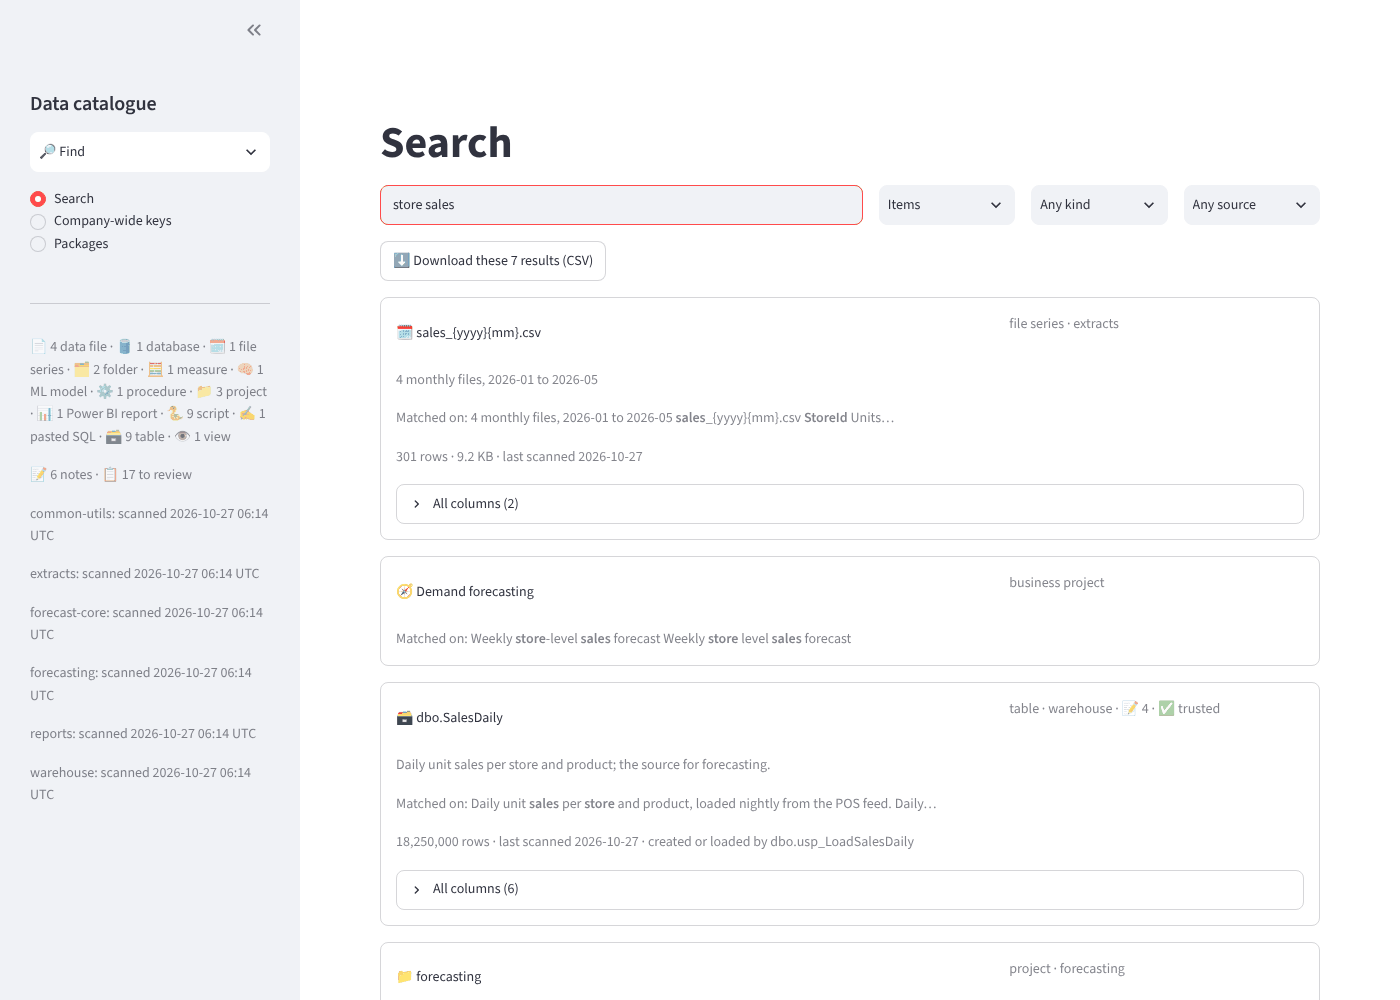
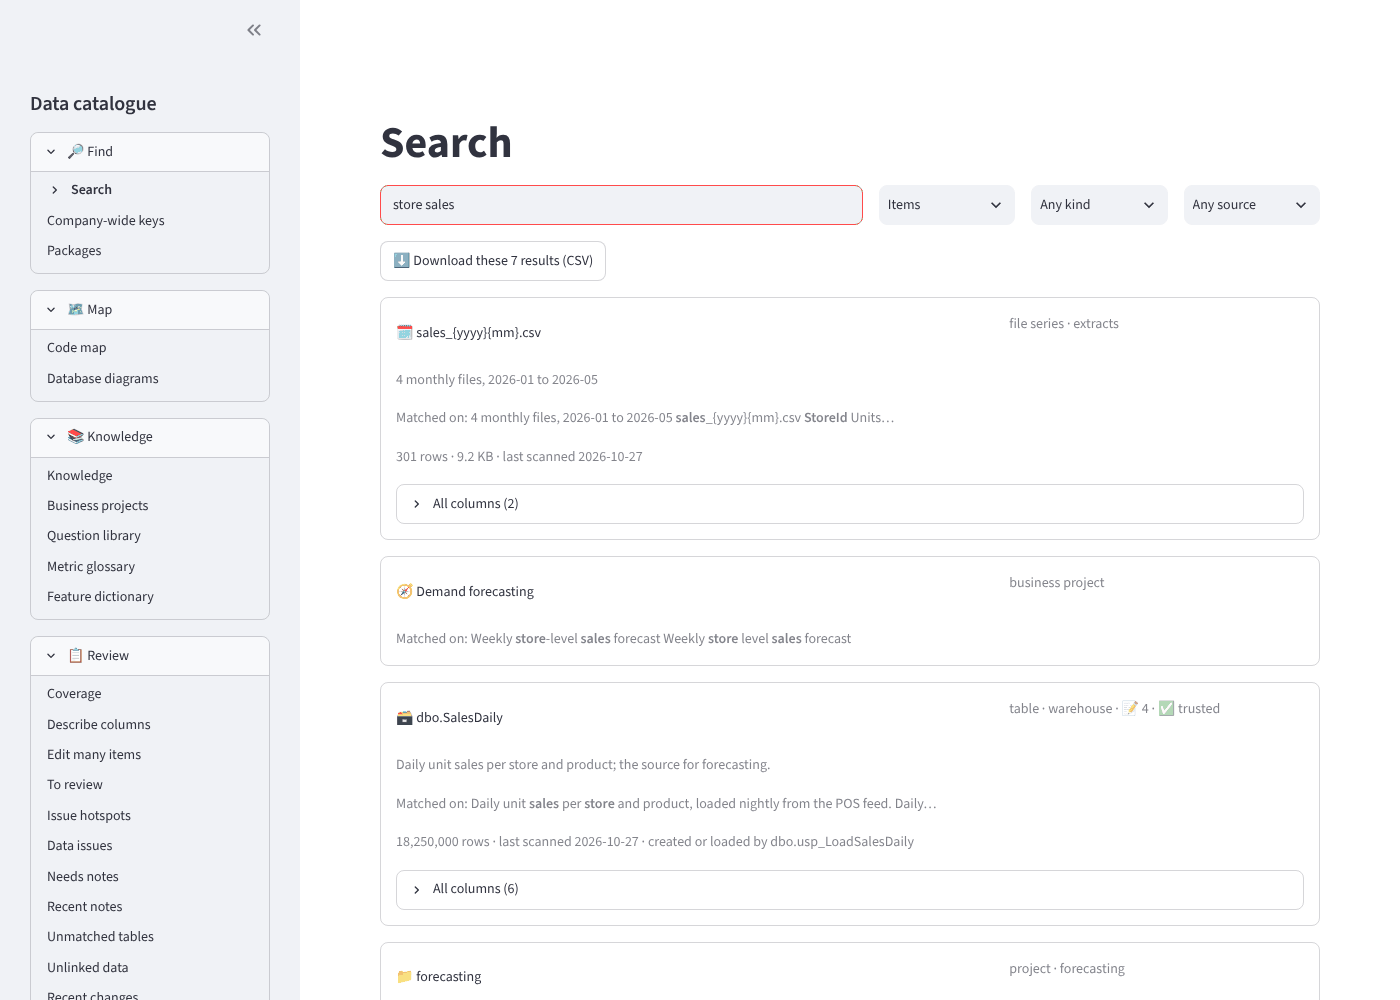
Show the whole menu in the sidebar, and require Streamlit 1.62
- Every page is listed in the sidebar, grouped by section in expanders, instead
  of hiding each group behind a section picker. Map moves up under Find.
- Clicking a menu item now leaves an open item page; before, the click did
  nothing while an item was open. The page name goes in the link, so a
  refresh or bookmark returns to it.
- Require Streamlit 1.62 or later. Older Streamlit with Starlette 1.8 fails
  with "Exception in ASGI application ... Expected http.response.start".
  The test suite passes on 1.62.
- README: upgrade notes on both, and screenshots retaken with the new menu.

Claude-Session: https://claude.ai/code/session_01WWGYwrkya9hSXgcDnc8cSP

diff --git a/src/pdcat/ui/main.py b/src/pdcat/ui/main.py
@@ -1,4 +1,4 @@
-"""Page layout: a section picker and a page list in the sidebar, an item page when one is open."""
+"""Page layout: the whole menu in the sidebar, grouped by section, and an item page when one is open."""
 from __future__ import annotations
 
 from typing import Callable
@@ -20,6 +20,7 @@ def sections() -> dict[str, dict[str, Page]]:
     return {
         "🔎 Find": {"Search": search.search_page, "Company-wide keys": keys_pages.keys_page,
                    "Packages": code.packages_page},
+        "🗺 Map": {"Code map": code.code_map_page, "Database diagrams": erd_page.erd_page},
         "📚 Knowledge": {"Knowledge": knowledge_pages.knowledge_page, "Business projects": bproject_pages.bprojects_page,
                         "Question library": knowledge_pages.questions_page,
                         "Metric glossary": knowledge_pages.metrics_page, "Feature dictionary": ml_pages.features_page},
@@ -29,7 +30,6 @@ def sections() -> dict[str, dict[str, Page]]:
                      "Recent notes": search.recent_notes_page, "Unmatched tables": search.unmatched_page,
                      "Unlinked data": lists.unlinked_page, "Recent changes": lists.changes_page,
                      "Sensitive data": keys_pages.sensitive_page, "Duplicates": lists.duplicates_page},
-        "🗺 Map": {"Code map": code.code_map_page, "Database diagrams": erd_page.erd_page},
         "➕ Add": {"Add SQL": sources.add_sql_page, "Data folders": sources.folders_page,
                   "SQL scanning": scanning.scanning_page},
         "📤 Share": {"Share with colleagues": share.sharing_page, "Copilot pack": share.copilot_page,
@@ -42,14 +42,44 @@ NEEDS_DATA = {"Search", "Data issues", "Needs notes", "Recent notes", "Unmatched
               "Describe columns", "Edit many items"}
 
 
+# Tight rows for the menu: Streamlit spaces buttons for forms, not for a list of links.
+MENU_CSS = """<style>
+[data-testid="stSidebar"] [data-testid="stExpander"] [data-testid="stVerticalBlock"] { gap: 0; }
+[data-testid="stSidebar"] [data-testid="stExpander"] button { min-height: 1.9rem; padding: 0.1rem 0; }
+[data-testid="stSidebar"] [data-testid="stExpander"] details > div { padding-top: 0.2rem; padding-bottom: 0.4rem; }
+</style>"""
+
+
+def open_page(name: str) -> None:
+    """Show a menu page, leaving any item page that is open. The page name goes in the link, so a refresh
+    or a bookmark comes back to it."""
+    st.session_state["nav-page"] = name
+    st.query_params.pop("asset", None)
+    st.query_params.pop("fn", None)
+    st.query_params["page"] = name
+
+
+def current_page(secs: dict[str, dict[str, Page]]) -> str:
+    names = {n for pages in secs.values() for n in pages}
+    name = st.session_state.get("nav-page") or st.query_params.get("page")
+    return name if name in names else "Search"
+
+
 def sidebar(cat: Catalogue) -> tuple[str, Page]:
     from pdcat.review import count_open
     secs = sections()
+    name = current_page(secs)
+    on_item = bool(st.query_params.get("asset"))
     with st.sidebar:
         st.header("Data catalogue")
-        section = st.selectbox("Section", list(secs), key="nav-section", label_visibility="collapsed")
-        pages = secs[section]
-        page = st.radio("Page", list(pages), key=f"nav-{section}", label_visibility="collapsed")
+        st.html(MENU_CSS)
+        # Every page is listed, so nothing hides behind a picker. Fold away the sections you don't use.
+        for section, pages in secs.items():
+            with st.expander(section, expanded=True):
+                for page in pages:
+                    here = page == name and not on_item
+                    st.button(f"**{page}**" if here else page, key=f"nav-{page}", on_click=open_page,
+                              args=(page,), type="tertiary", icon=":material/chevron_right:" if here else None)
         st.divider()
         stats = cat.stats()
         kinds = stats["kinds"]
@@ -58,7 +88,7 @@ def sidebar(cat: Catalogue) -> tuple[str, Page]:
         st.caption(f"📝 {stats['notes']} notes · 📋 {count_open(cat)} to review")
         for source, at in stats["last_scans"].items():
             st.caption(f"{source}: scanned {at[:16].replace('T', ' ')} UTC")
-    return page, pages[page]
+    return name, next(pages[name] for pages in secs.values() if name in pages)
 
 
 def session_start(cat: Catalogue) -> None:

diff --git a/tests/test_app.py b/tests/test_app.py
@@ -11,11 +11,8 @@ SALES = "sql://warehouse/forecastdb/dbo.salesdaily"
 
 
 def goto(app, page: str):
-    """Pick a page from the sidebar: its section first, then the page."""
-    from pdcat.ui.main import sections
-    section = next(name for name, pages in sections().items() if page in pages)
-    app.sidebar.selectbox(key="nav-section").set_value(section).run()
-    app.sidebar.radio(key=f"nav-{section}").set_value(page).run()
+    """Pick a page from the sidebar menu."""
+    app.sidebar.button(key=f"nav-{page}").click().run()
     return app
 
 
@@ -228,3 +225,15 @@ def test_report_workbook_and_measure_pages(app, catalogue, tmp_path):
     assert not app.exception
     from pdcat.knowledge import list_metrics
     assert list_metrics(catalogue)[0]["from_measure"] == measure
+
+
+def test_menu_lists_every_page_and_leaves_an_item_page(app):
+    from pdcat.ui.main import sections
+    app.query_params["asset"] = SALES
+    app.run()
+    assert not app.exception
+    shown = {b.key for b in app.sidebar.button}
+    assert {f"nav-{p}" for pages in sections().values() for p in pages} <= shown  # nothing hidden behind a picker
+    goto(app, "Code map")
+    assert not app.exception
+    assert "asset" not in app.query_params and app.title[0].value == "Code map"

diff --git a/README.md b/README.md
@@ -160,6 +160,16 @@ untouched copy of the old file next to it (the path is shown in the app and on t
 Settings page). Nothing is removed; every note is kept. Rescan to fill in the new
 details (`pdcat scan`).
 
+Version 2 needs Streamlit 1.62 or later; both install commands above update it. With an
+older Streamlit the app can stop with "Exception in ASGI application … Expected
+http.response.start", which comes from older Streamlit clashing with a newer Starlette.
+To update just Streamlit: `pip install -U "streamlit>=1.62"` (or
+`conda install -c conda-forge "streamlit>=1.62"` in a conda environment).
+
+Every page from version 1 is still there. The sidebar now groups them: **Find** (Search),
+**Map** (Code map), **Review** (To review, Issue hotspots, Data issues, Needs notes,
+Recent notes, Unmatched tables) and **Add** (Add SQL, Data folders).
+
 ## What it does
 
 - **Scans SQL Server** with your Windows login: tables, views and stored procedures,
